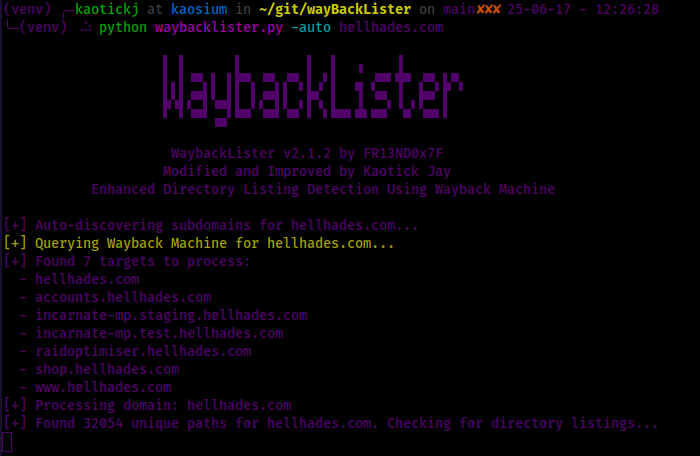
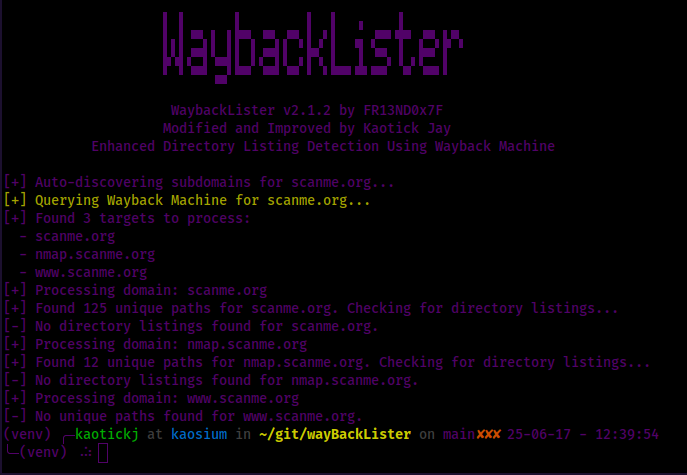
update readme

Changed region(s): [[0.0, 0.0, 1.0, 1.0]]

diff --git a/README.md b/README.md
@@ -69,7 +69,7 @@ python waybacklister.py -auto example.com
 ### Custom Thread Count
 
 ```bash
-python waybacklister.py -d example.com -t 20
+python waybacklister.py -auto scanme.org
 ```
 
 ---
@@ -77,14 +77,21 @@ python waybacklister.py -d example.com -t 20
 ## 📄 Example Output
 
 ```
-[+] Querying Wayback Machine for example.com...
-[+] Found 154 unique paths for example.com. Checking for directory listings...
-[+] Directory Listing Found: http://example.com/files/
-[+] Directory Listing Found: http://example.com/uploads/
+[+] Auto-discovering subdomains for scanme.org...
+[+] Querying Wayback Machine for scanme.org...
+[+] Found 3 targets to process:
+  - scanme.org
+  - nmap.scanme.org
+  - www.scanme.org
+[+] Processing domain: scanme.org
+[+] Found 125 unique paths for scanme.org. Checking for directory listings...
+[-] No directory listings found for scanme.org.
+[+] Processing domain: nmap.scanme.org
+[+] Found 12 unique paths for nmap.scanme.org. Checking for directory listings...
+[-] No directory listings found for nmap.scanme.org.
+[+] Processing domain: www.scanme.org
+[-] No unique paths found for www.scanme.org.
 
-[+] Summary of Directory Listings for example.com:
-http://example.com/files/
-http://example.com/uploads/
 ```
 
 ---
